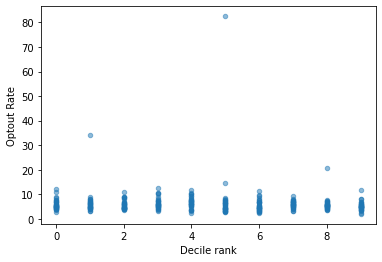
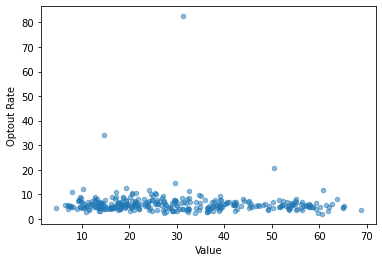
deploy: 891c3b10e6cf9bf0603a68480f61e904a1ef901f

diff --git a/searchindex.js b/searchindex.js
@@ -1,1 +1,1 @@
-Search.setIndex({docnames:["CONDUCT","CONTRIBUTING","GPOptOut","README","content","intro","markdown"],envversion:{"sphinx.domains.c":2,"sphinx.domains.changeset":1,"sphinx.domains.citation":1,"sphinx.domains.cpp":5,"sphinx.domains.index":1,"sphinx.domains.javascript":2,"sphinx.domains.math":2,"sphinx.domains.python":3,"sphinx.domains.rst":2,"sphinx.domains.std":2,"sphinx.ext.intersphinx":1,"sphinxcontrib.bibtex":9,sphinx:56},filenames:["CONDUCT.md","CONTRIBUTING.md","GPOptOut.ipynb","README.md","content.md","intro.md","markdown.md"],objects:{},objnames:{},objtypes:{},terms:{"0":2,"1":[0,2],"10":2,"2":[2,5],"2014":6,"3":2,"4":0,"5":2,"50":2,"500":2,"93553":2,"default":6,"do":[0,3,4,6],"function":6,"import":2,"public":0,"short":4,"true":2,A:3,And:5,At:6,Being:0,By:1,For:[3,6],If:[1,3,6],In:[0,2,6],It:6,No:2,The:[0,1,6],There:[4,6],_build:3,_o:2,abid:1,about:[1,3,6],abus:0,accept:[0,6],account:0,act:0,action:[0,3],adapt:0,add:6,address:0,advanc:0,ag:0,again:6,agre:1,align:0,all:[0,3,6],all_gp_fil:2,allow:6,alpha:2,alreadi:6,also:6,alwai:1,an:[0,1,2],ani:[0,1,3,6],anoth:6,anyth:1,appear:0,appli:0,appoint:0,appreci:1,appropri:0,ar:[0,1,4],area:2,articl:1,associ:6,attack:0,attent:0,auditori:6,australia:6,automat:3,axessubplot:2,ban:0,behavior:0,being:6,below:1,best:[0,1],between:2,bib:6,bibliographi:6,bibtex:6,bit:1,block:[5,6],blog:1,bodi:0,book:6,both:[0,6],box:6,branch:[1,3],brian:6,brisban:6,build:6,built:[3,6],bundl:5,call:[2,6],can:[1,3,6],ccg:2,cell:[2,6],chang:1,check:5,cheshir:2,chose:3,christoph:6,ci:3,circumst:0,cite:6,clarifi:0,clean:3,clone:[1,3],code:[2,5],cognit:6,command:6,comment:0,commit:[0,1],commonmark:6,commun:0,complaint:0,complex:6,comput:6,concat:2,conda:1,confer:6,confidenti:0,consid:0,construct:0,contact:0,content:[5,6],continu:3,contribut:[0,3],contributor:[0,1],cookiecutt:3,copi:1,correct:0,cortex:6,could:[0,1],coven:0,cover:4,creat:[0,1,3],credit:1,critic:0,csv:2,current:3,d:[3,6],data:3,de:6,decil:2,deem:0,defin:[0,6],demo:3,depend:6,deploi:3,deploy:3,depriv:2,derogatori:0,detail:[0,1],determin:0,develop:[1,3],differ:[0,6],digit:2,directli:6,directori:3,disabl:0,discov:3,displai:[2,6],doc:[1,6],docstr:1,document:[3,6],doesn:6,driven:1,e:[0,1,5],easier:1,easili:3,ecosystem:6,edit:[0,3],electron:0,empathi:0,enhanc:1,entir:6,environ:[0,3],ethnic:0,even:1,event:0,everi:1,everyon:0,evid:6,exampl:[0,3,6],excel:3,exclud:2,executablebook:3,exist:[3,6],expand:2,expect:0,experi:0,explain:1,explan:2,explicit:0,express:0,extens:6,f:2,face:0,fair:0,faith:0,fals:2,feel:5,few:4,file:[1,3],first:6,flavor:6,focus:0,follow:[0,6],fork:1,formbi:2,foster:0,free:0,from:[0,2],frontier:6,full:2,fulli:3,further:0,g:1,gender:0,gener:2,get:2,gh:3,github:[1,3],gitlab:3,give:5,given:1,good:0,gp:1,gp_depriv:2,gp_optout:[2,3],gp_output_data:2,gp_profil:2,gracefulli:0,greatli:1,ha:6,halton:2,harass:0,harm:0,have:0,hdhpk14:6,heer:6,helen:2,help:[1,3],here:[1,5,6],holdgraf:6,holdgraf_evidence_2014:6,how:[1,2,4,5],html:3,human:6,id:2,ident:0,ignore_index:2,imageri:0,inappropri:0,incid:0,includ:[0,1,3,6],include_ci:3,inclus:0,indic:2,individu:0,inform:[0,3,6],init:6,input:6,insert:6,insid:6,instal:[1,3],instanc:0,insult:0,integr:3,interest:0,intern:6,intro:6,investig:[0,2],ipynb:6,isnul:2,issu:[0,1],its:[0,1,6],jupyt:[3,6],jupytext:6,keep:1,kernel:6,kind:6,knight:6,label:2,languag:[0,6],last:2,leadership:0,left:2,left_on:2,less:6,level:0,like:[3,6],line:[2,6],list:[1,3],littl:1,ll:6,load:2,local:1,locat:3,look:[1,6],made:3,mai:0,mail:0,main:3,maintain:0,make:[0,1],mani:[4,6],markedli:6,markup:6,matplotlib:2,max_column:2,max_row:2,mc:5,md:6,media:0,member:0,merg:2,metadata:6,mi:2,might:1,modul:2,modulenotfounderror:2,more:[1,5,6],moreov:6,most:[2,6],must:6,my:6,mydirectivenam:6,n:6,name:[1,2,6],narr:2,narrow:1,nation:[0,2],nb:6,ndop_sum_apr_2022_practic:2,need:2,netlifi:3,neurosci:6,nh:2,note:[1,5,6],notebook:6,number:2,oblig:0,offens:0,offici:[0,1],offlin:0,ohid:2,onc:[3,6],one:6,onli:6,onlin:[0,3],open:[0,1,3],oper:1,opt:3,option:3,optout:[1,2],orient:0,other:0,otherwis:0,out:[3,5],outlier:2,output:6,overview:2,page:[3,5,6],panda:2,parent:2,part:1,particip:0,paslei:6,path:6,pattern:6,pd:2,perman:0,permiss:0,person:0,physic:0,pip:3,pleas:[1,3],plot:2,plt:2,polici:0,polit:0,posit:0,possibl:1,post:[0,1],power:6,practic:2,pre:6,predict:6,print:[2,6],privat:0,profession:0,profil:2,project:[0,1,3],properli:6,propos:1,publish:0,pull:[1,3],purpos:6,push:[1,3],pyplot:2,qcut:2,quick:[2,3],r:3,race:0,ramsai:6,rank:2,rate:2,read_csv:2,readi:1,reason:0,recent:2,recogn:3,recommend:3,refer:6,regard:0,regardless:0,regular:6,reject:0,rel:6,relationship:2,releas:1,religion:0,rememb:1,remov:[0,2,3],render:[3,6],repercuss:0,repo:[1,3],report:0,repositori:3,repres:0,represent:0,reproduc:1,request:[1,3],requir:3,respect:0,respond:0,rest:6,result:6,review:0,right:0,right_on:2,robert:6,rolenam:6,run:[3,6],s:[0,1,6],same:6,sampl:5,scatter:2,scope:1,score:2,section:4,see:[3,5,6],sefton:2,send:1,separ:0,serv:6,servic:3,set:[0,1],set_index:2,set_opt:2,setup:1,sexual:0,should:3,show:0,similar:6,simplest:6,size:0,slight:6,small:[5,6],so:[4,6],social:0,some:6,sourc:3,south:2,southport:2,space:0,span:6,specif:[0,3,6],sphinx:6,st:2,stand:6,step:1,store:6,structur:[5,6],suffix:2,syntax:6,system:1,t:6,tab:3,tag:1,take:0,team:0,templat:3,temporari:0,temporarili:0,term:1,text:6,thei:[0,1,6],thi:[0,1,2,3,4,5,6],those:6,threaten:0,through:1,time:6,tip:4,todo:2,tool:6,toward:0,traceback:2,troll:0,troubleshoot:1,two:6,txt:3,unaccept:0,unwelcom:0,up:[1,2],us:[0,1,3],valid:6,valu:2,variat:6,veri:6,version:[0,1,3],via:0,viewpoint:0,virtual:3,virtualenv:1,volunt:1,wa:3,wai:[0,1,4],want:1,warrington:2,we:[0,3],web:1,websit:1,welcom:[0,1,3,6],wendi:6,what:0,when:[0,3,6],wherea:6,whether:[1,6],which:[0,6],who:0,whoever:1,wiki:0,wirral:2,within:[0,3],without:0,work:[1,6],workflow:3,would:1,write:[2,4,6],written:6,x:2,xlabel:2,y:2,ylabel:2,you:[1,3,5,6],your:[1,3]},titles:["Code of Conduct","Contributing","Liverpool GP Opt Out Data","GP Optout","Content in Jupyter Book","Welcome to your Jupyter Book","Markdown Files"],titleterms:{ad:6,ar:6,attribut:0,book:[3,4,5],bug:1,build:3,citat:6,code:[0,1,6],conduct:[0,1],content:4,contribut:1,contributor:3,credit:3,data:2,direct:6,document:1,enforc:0,execut:6,featur:1,feedback:1,file:6,fix:1,get:1,gp:[2,3],host:3,implement:1,jupyt:[4,5],liverpool:2,markdown:6,myst:6,opt:2,optout:3,our:0,out:2,pledg:0,report:1,respons:0,role:6,scope:0,sourc:2,standard:0,start:1,submit:1,us:6,usag:3,welcom:5,what:6,write:1,your:[5,6]}})
+Search.setIndex({docnames:["CONDUCT","CONTRIBUTING","GPOptOut","README","content","intro","markdown"],envversion:{"sphinx.domains.c":2,"sphinx.domains.changeset":1,"sphinx.domains.citation":1,"sphinx.domains.cpp":5,"sphinx.domains.index":1,"sphinx.domains.javascript":2,"sphinx.domains.math":2,"sphinx.domains.python":3,"sphinx.domains.rst":2,"sphinx.domains.std":2,"sphinx.ext.intersphinx":1,"sphinxcontrib.bibtex":9,sphinx:56},filenames:["CONDUCT.md","CONTRIBUTING.md","GPOptOut.ipynb","README.md","content.md","intro.md","markdown.md"],objects:{},objnames:{},objtypes:{},terms:{"0":2,"1":[0,2],"10":2,"2":[2,5],"2014":6,"3":2,"4":0,"5":2,"50":2,"500":2,"80":2,"93553":2,"default":6,"do":[0,3,4,6],"function":6,"import":2,"public":0,"short":4,"true":2,A:3,And:5,At:6,Being:0,By:1,For:[2,3,6],If:[1,3,6],In:[0,2,6],It:6,No:2,The:[0,1,2,6],There:[2,4,6],_build:3,_o:2,abid:1,about:[1,3,6],abus:0,accept:[0,6],account:0,act:0,action:[0,3],adapt:0,add:6,address:0,advanc:0,ag:0,again:6,agre:1,align:0,all:[0,3,6],all_gp_fil:2,allow:6,alpha:2,alreadi:6,also:6,alwai:1,an:[0,1,2],ani:[0,1,3,6],anoth:6,anyth:1,appear:0,appli:0,appoint:0,appreci:1,appropri:0,ar:[0,1,4],area:2,articl:1,associ:6,attack:0,attent:0,auditori:6,australia:6,automat:3,axessubplot:2,ban:0,behavior:0,being:6,below:1,best:[0,1],between:2,bib:6,bibliographi:6,bibtex:6,bit:1,block:[5,6],blog:1,bodi:0,book:6,both:[0,6],box:6,branch:[1,3],brian:6,brisban:6,build:6,built:[3,6],bundl:5,call:[2,6],can:[1,2,3,6],ccg:2,cell:[2,6],chang:1,check:5,cheshir:2,chose:3,christoph:6,ci:3,circumst:0,cite:6,clarifi:0,clean:3,clone:[1,3],code:[2,5],cognit:6,combin:2,command:6,comment:0,commit:[0,1],commonmark:6,commun:0,complaint:0,complex:6,comput:6,concat:2,conda:1,confer:6,confidenti:0,consid:0,construct:0,contact:0,content:[5,6],continu:3,contribut:[0,3],contributor:[0,1],cookiecutt:3,copi:1,correct:0,cortex:6,could:[0,1],coven:0,cover:4,creat:[0,1,3],credit:1,critic:0,csv:2,current:3,d:[3,6],data:3,de:6,decil:2,deem:0,defin:[0,6],demo:3,depend:6,deploi:3,deploy:3,depriv:2,derogatori:0,detail:[0,1],determin:0,develop:[1,3],differ:[0,6],digit:2,directli:6,directori:3,disabl:0,discov:3,displai:[2,6],doc:[1,6],docstr:1,document:[3,6],doesn:6,driven:1,e:[0,1,5],easier:1,easili:3,ecosystem:6,edit:[0,3],electron:0,empathi:0,enhanc:1,entir:6,environ:[0,3],ethnic:0,even:1,event:0,everi:1,everyon:0,evid:6,exampl:[0,3,6],excel:3,exclud:2,executablebook:3,exist:[3,6],expand:2,expect:0,experi:0,explain:1,explan:2,explicit:0,express:0,extens:6,f:2,face:0,fair:0,faith:0,fals:2,feel:5,few:4,file:[1,2,3],first:[2,6],flavor:6,focus:0,folder:2,follow:[0,6],fork:1,formbi:2,foster:0,free:0,from:[0,2],frontier:6,full:2,fulli:3,further:0,g:1,gender:0,gener:2,get:2,gh:3,github:[1,2,3],gitlab:3,give:5,given:1,good:0,gp:1,gp_depriv:2,gp_optout:[2,3],gp_output_data:2,gp_profil:2,gracefulli:0,greatli:1,ha:6,halton:2,harass:0,harm:0,have:0,hdhpk14:6,heer:6,helen:2,help:[1,3],here:[1,5,6],holdgraf:6,holdgraf_evidence_2014:6,how:[1,2,4,5],html:3,human:6,id:2,ident:0,ignore_index:2,imageri:0,inappropri:0,incid:0,includ:[0,1,3,6],include_ci:3,inclus:0,indic:2,individu:0,inform:[0,3,6],init:6,input:6,insert:6,insid:6,instal:[1,3],instanc:0,insult:0,integr:3,interest:0,intern:6,intro:6,investig:[0,2],ipynb:6,isnul:2,issu:[0,1],its:[0,1,6],jupyt:[3,6],jupytext:6,keep:1,kernel:6,kind:6,knight:6,label:2,languag:[0,6],last:2,later:2,leadership:0,left:2,left_on:2,less:6,level:0,like:[3,6],line:[2,6],list:[1,3],littl:1,ll:6,local:1,locat:3,look:[1,6],made:3,mai:0,mail:0,main:3,maintain:0,make:[0,1],mani:[4,6],markedli:6,markup:6,matplotlib:2,max_column:2,max_row:2,mc:5,md:6,media:0,member:0,merg:2,metadata:6,mi:2,might:1,modul:2,modulenotfounderror:2,more:[1,5,6],moreov:6,most:[2,6],must:6,my:6,mydirectivenam:6,n:6,name:[1,2,6],narr:2,narrow:1,nation:[0,2],nb:6,ndop_sum_apr_2022_practic:2,need:2,netlifi:3,neurosci:6,nh:2,note:[1,5,6],notebook:6,number:2,oblig:0,offens:0,offici:[0,1],offlin:0,ohid:2,onc:[3,6],one:[2,6],onli:6,onlin:[0,3],open:[0,1,3],oper:1,opt:3,option:3,optout:[1,2],orient:0,other:0,otherwis:0,out:[3,5],outlier:2,output:6,over:2,overview:2,page:[3,5,6],panda:2,parent:2,part:1,particip:0,paslei:6,path:6,pattern:6,pd:2,perman:0,permiss:0,person:0,physic:0,pip:3,pleas:[1,3],plt:2,polici:0,polit:0,posit:0,possibl:1,post:[0,1],power:6,practic:2,pre:6,predict:6,print:[2,6],privat:0,profession:0,profil:2,project:[0,1,3],properli:6,propos:1,publish:0,pull:[1,3],purpos:6,push:[1,3],pyplot:2,qcut:2,quick:[2,3],r:3,race:0,ramsai:6,rank:2,rate:2,read_csv:2,readi:1,reason:0,recent:2,recogn:3,recommend:3,refer:6,regard:0,regardless:0,regular:6,reject:0,rel:6,relationship:2,releas:1,religion:0,rememb:1,remov:[0,2,3],render:[3,6],repercuss:0,repo:[1,3],report:0,repositori:[2,3],repres:0,represent:0,reproduc:1,request:[1,3],requir:3,respect:0,respond:0,rest:6,result:6,review:0,right:0,right_on:2,robert:6,rolenam:6,run:[3,6],s:[0,1,6],same:6,sampl:5,scatter:2,scope:1,score:2,section:4,see:[3,5,6],sefton:2,send:1,separ:0,serv:6,servic:3,set:[0,1],set_index:2,set_opt:2,setup:1,sexual:0,should:3,show:0,similar:6,simplest:6,size:0,slight:6,small:[5,6],so:[4,6],social:0,some:6,sourc:3,south:2,southport:2,space:0,span:6,specif:[0,3,6],sphinx:6,st:2,stand:6,step:[1,2],store:6,structur:[5,6],suffix:2,syntax:6,system:1,t:6,tab:3,tag:1,take:0,team:0,templat:3,temporari:0,temporarili:0,term:1,text:6,thei:[0,1,6],thi:[0,1,2,3,4,5,6],those:6,threaten:0,through:1,time:6,tip:4,todo:2,tool:6,toward:0,traceback:2,troll:0,troubleshoot:1,two:6,txt:3,unaccept:0,unwelcom:0,up:[1,2],us:[0,1,2,3],valid:6,valu:2,variat:6,veri:6,version:[0,1,3],via:0,view:2,viewpoint:0,virtual:3,virtualenv:1,volunt:1,wa:[2,3],wai:[0,1,4],want:1,warrington:2,we:[0,3],web:1,websit:1,welcom:[0,1,3,6],wendi:6,what:0,when:[0,3,6],where:2,wherea:6,whether:[1,6],which:[0,6],who:0,whoever:1,wiki:0,wirral:2,within:[0,3],without:0,work:[1,6],workflow:3,would:1,write:[2,4,6],written:6,x:2,xlabel:2,y:2,ylabel:2,you:[1,3,5,6],your:[1,3]},titles:["Code of Conduct","Contributing","Liverpool GP Opt Out Data","GP Optout","Content in Jupyter Book","Welcome to your Jupyter Book","Markdown Files"],titleterms:{ad:6,ar:6,attribut:0,book:[3,4,5],bug:1,build:3,citat:6,code:[0,1,6],conduct:[0,1],content:4,contribut:1,contributor:3,credit:3,data:2,direct:6,document:1,enforc:0,execut:6,featur:1,feedback:1,file:6,fix:1,get:1,gp:[2,3],host:3,implement:1,jupyt:[4,5],liverpool:2,load:2,markdown:6,myst:6,opt:2,optout:3,our:0,out:2,pledg:0,plot:2,report:1,respons:0,role:6,scope:0,sourc:2,standard:0,start:1,submit:1,us:6,usag:3,welcom:5,what:6,write:1,your:[5,6]}})

diff --git a/GPOptOut.html b/GPOptOut.html
@@ -334,6 +334,16 @@ title="Print to PDF"
    Data Sources
   </a>
  </li>
+ <li class="toc-h2 nav-item toc-entry">
+  <a class="reference internal nav-link" href="#loading-the-data">
+   Loading the Data
+  </a>
+ </li>
+ <li class="toc-h2 nav-item toc-entry">
+  <a class="reference internal nav-link" href="#plotting-the-data">
+   Plotting the data
+  </a>
+ </li>
 </ul>
 
     </nav>
@@ -358,6 +368,16 @@ title="Print to PDF"
    Data Sources
   </a>
  </li>
+ <li class="toc-h2 nav-item toc-entry">
+  <a class="reference internal nav-link" href="#loading-the-data">
+   Loading the Data
+  </a>
+ </li>
+ <li class="toc-h2 nav-item toc-entry">
+  <a class="reference internal nav-link" href="#plotting-the-data">
+   Plotting the data
+  </a>
+ </li>
 </ul>
 
                         </nav>
@@ -376,6 +396,10 @@ title="Print to PDF"
 <h2>Data Sources<a class="headerlink" href="#data-sources" title="Permalink to this headline">#</a></h2>
 <p><a class="reference external" href="https://digital.nhs.uk/data-and-information/publications/statistical/national-data-opt-out">MI National Data Opt-Out - NHS Digital</a></p>
 <p><a class="reference external" href="https://fingertips.phe.org.uk/profile/general-practice/data#page/0/gid/2000005/pat/167/par/E38000101/ati/7/are/N82054/iid/639/age/28/sex/4/cat/-1/ctp/-1/yrr/1/cid/4/tbm/1">National General Practice Profiles - Data - OHID</a></p>
+</section>
+<section id="loading-the-data">
+<h2>Loading the Data<a class="headerlink" href="#loading-the-data" title="Permalink to this headline">#</a></h2>
+<p>The first step was to load and combine the data sources. The files used can be viewed in the GitHub repository <a class="reference external" href="https://github.com/grazulis/gp-outout-book/tree/main/data">data folder</a></p>
 <div class="cell tag_hide-input docutils container">
 <div class="cell_input docutils container">
 <div class="highlight-ipython3 notranslate"><div class="highlight"><pre><span></span># Code to load the data
@@ -438,6 +462,10 @@ gp_output_data[&#39;Decile rank&#39;] = pd.qcut(gp_output_data[&#39;Value&#39;],
 </div>
 </div>
 </div>
+</section>
+<section id="plotting-the-data">
+<h2>Plotting the data<a class="headerlink" href="#plotting-the-data" title="Permalink to this headline">#</a></h2>
+<p>The data was plotted. There is an outlier of one practice where the opt out rate is over 80%. For later plots this was excluded.</p>
 <div class="cell tag_hide-input docutils container">
 <div class="cell_input docutils container">
 <div class="highlight-ipython3 notranslate"><div class="highlight"><pre><span></span>gp_output_data.plot.scatter(x=&quot;Value&quot;, y=&quot;Optout Rate&quot;, alpha = 0.5)
@@ -448,7 +476,7 @@ gp_output_data[&#39;Decile rank&#39;] = pd.qcut(gp_output_data[&#39;Value&#39;],
 <div class="output text_plain highlight-myst-ansi notranslate"><div class="highlight"><pre><span></span>&lt;AxesSubplot:xlabel=&#39;Value&#39;, ylabel=&#39;Optout Rate&#39;&gt;
 </pre></div>
 </div>
-<img alt="_images/GPOptOut_3_1.png" src="_images/GPOptOut_3_1.png" />
+<img alt="_images/GPOptOut_5_1.png" src="_images/GPOptOut_5_1.png" />
 </div>
 </div>
 <div class="cell tag_hide-input docutils container">
@@ -465,7 +493,7 @@ gp_output_data[gp_output_data[&quot;Optout Rate&quot;] &lt; 50].plot.scatter(x=&
 <div class="output text_plain highlight-myst-ansi notranslate"><div class="highlight"><pre><span></span>&lt;AxesSubplot:xlabel=&#39;Value&#39;, ylabel=&#39;Optout Rate&#39;&gt;
 </pre></div>
 </div>
-<img alt="_images/GPOptOut_4_2.png" src="_images/GPOptOut_4_2.png" />
+<img alt="_images/GPOptOut_6_2.png" src="_images/GPOptOut_6_2.png" />
 </div>
 </div>
 <div class="cell docutils container">
@@ -478,7 +506,7 @@ gp_output_data[gp_output_data[&quot;Optout Rate&quot;] &lt; 50].plot.scatter(x=&
 <div class="output text_plain highlight-myst-ansi notranslate"><div class="highlight"><pre><span></span>&lt;AxesSubplot:xlabel=&#39;Decile rank&#39;, ylabel=&#39;Optout Rate&#39;&gt;
 </pre></div>
 </div>
-<img alt="_images/GPOptOut_5_1.png" src="_images/GPOptOut_5_1.png" />
+<img alt="_images/GPOptOut_7_1.png" src="_images/GPOptOut_7_1.png" />
 </div>
 </div>
 </section>
